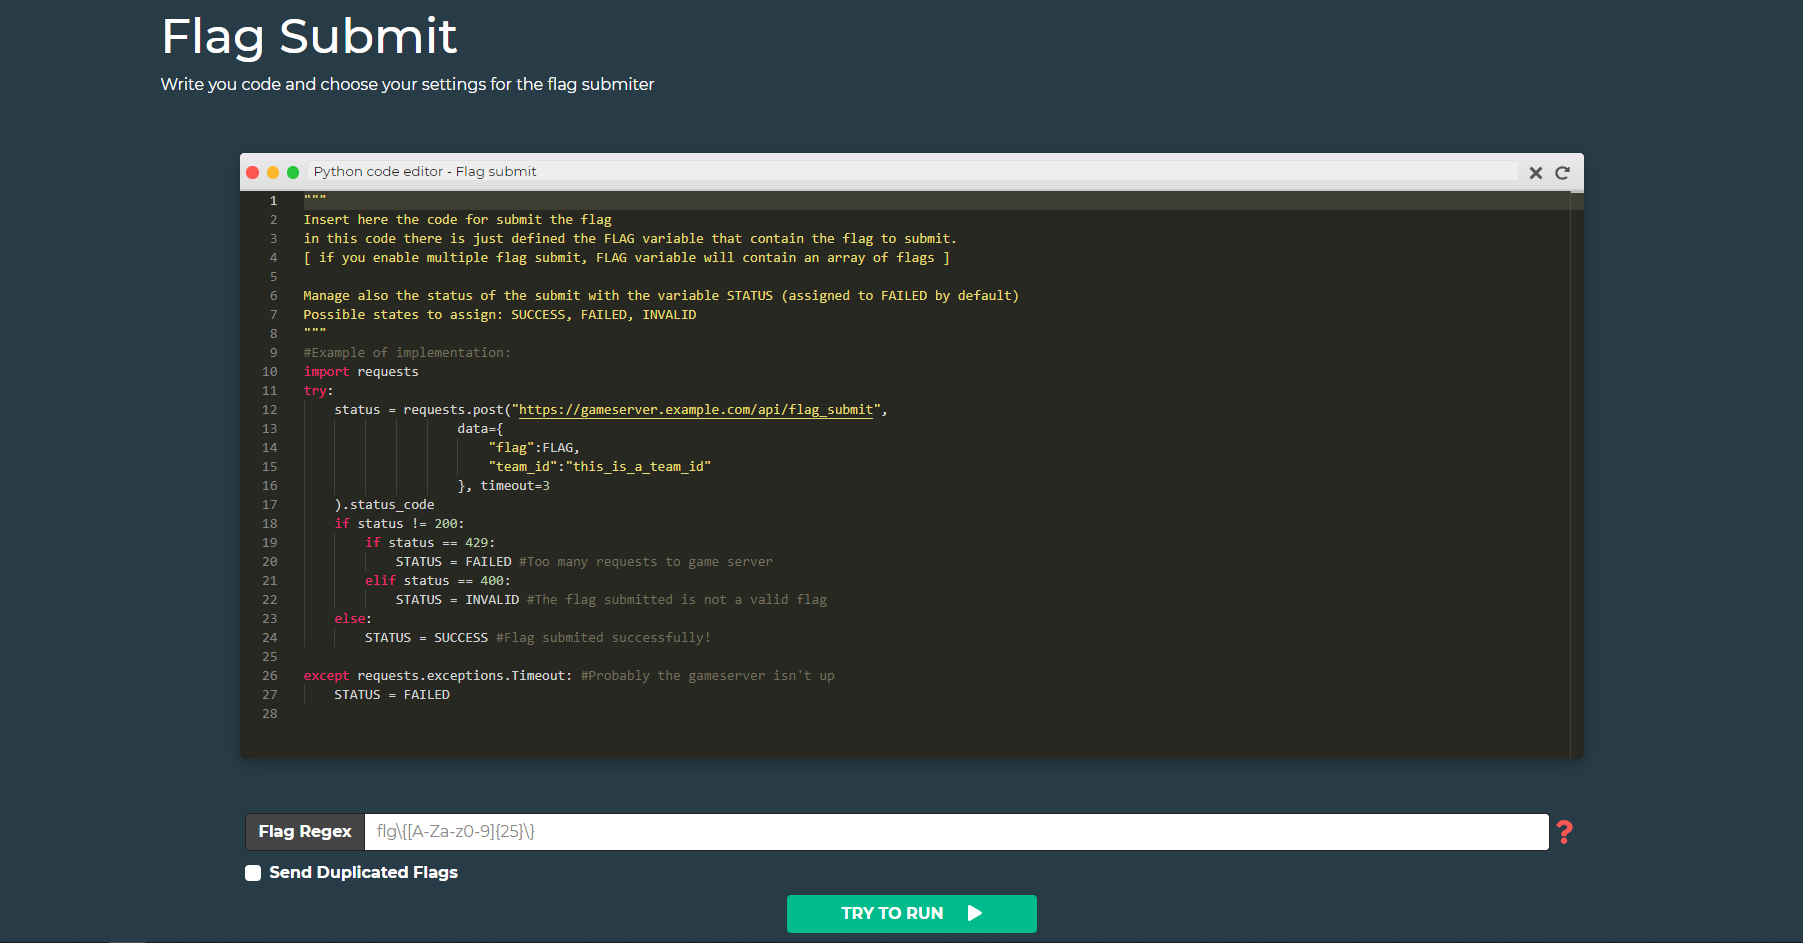
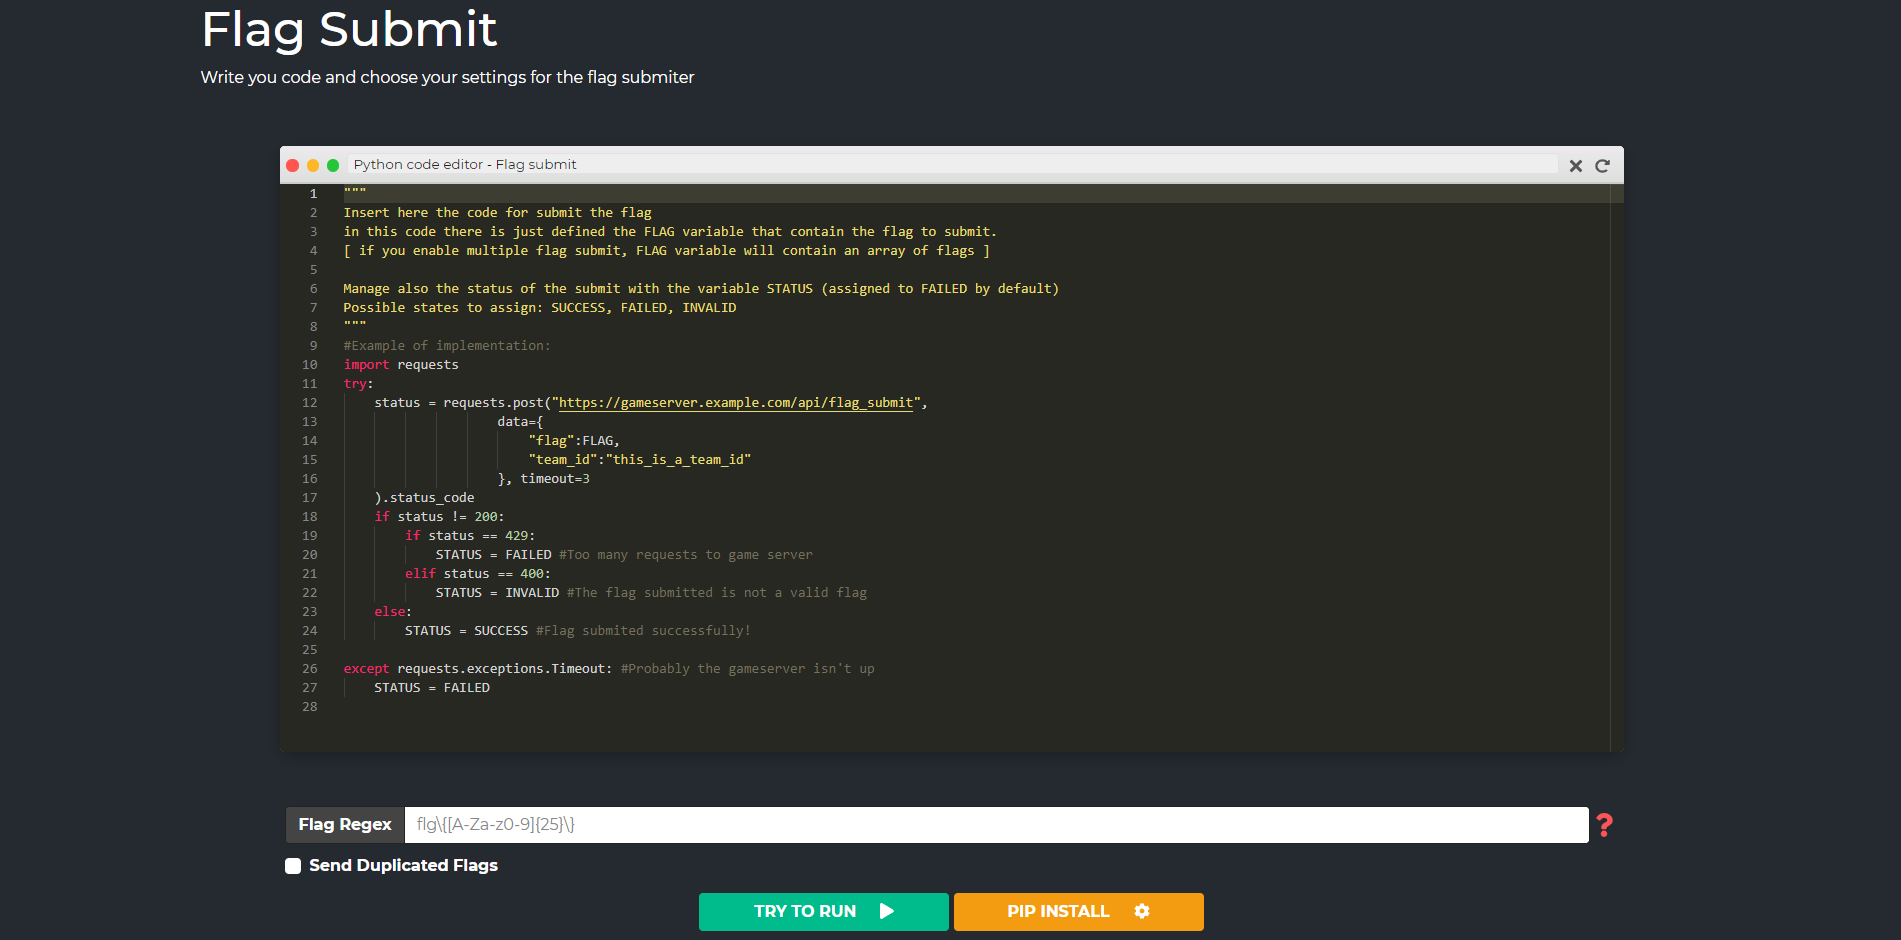
Improvements in init pages, init build the main page, style changes

diff --git a/webserver/static/css/default.css b/webserver/static/css/default.css
@@ -1,7 +1,7 @@
 @import url('https://fonts.googleapis.com/css2?family=Montserrat:ital,wght@0,100;0,200;0,300;0,400;0,500;0,600;0,700;0,800;0,900;1,100;1,200;1,300;1,400;1,500;1,600;1,700;1,800;1,900&display=swap');
 :root {
     --first: #f9f8f3;
-    --second: #273c47;
+    --second: #252a30;
     --third: #fb5555;
     --fourth: #df1833;
     --fifth: #3fa997;
@@ -15,21 +15,22 @@ html {
     border: 0;
     padding: 0;
     min-height: 100vh;
+    background: var(--second);
 }
 
 body {
     margin: 0;
-    background: var(--first);
+    background: var(--second);
     color: var(--text);
     font-family: 'Montserrat', sans-serif;
 }
 
 main {
-    min-height: calc(100vh - 150px);
+    min-height: calc(100vh - 100px);
 }
 
 nav {
-    height: 100px;
+    height: 130px;
     background: var(--second);
 }
 
@@ -42,7 +43,7 @@ img {
 }
 
 footer.default {
-    height: 150px;
+    height: 100px;
     display: flex;
     align-items: center;
     justify-content: space-between;
@@ -288,5 +289,59 @@ html.is-animating .transition-fade {
         -webkit-transform: rotate(-360deg);
     }
 }
-  
-  
+
+
+/* Main Screen */
+
+#main-img-nav{
+    height: 130px;
+    width: auto;
+    padding:40px;
+    padding-top: 25px;
+    float:left;
+}
+
+#left-div-nav{
+    float: right;
+    height: 100%;
+    display: flex;
+    align-items: center;
+    justify-content: center;
+}
+
+#flag-submitted-icon{
+    margin-right: 50px;
+    font-size: 150%;
+    color: #00bc8c;
+}
+
+#flag-submitted{
+    margin-right: 10px;
+    font-weight: bolder;
+    font-size: 150%;
+    color: #00bc8c;
+}
+
+.mr10px{margin-right: 10px;}
+.mr60px{margin-right: 60px;}
+
+@media only screen and (max-width: 570px) {
+    #main-img-nav{
+        display: none;
+    }
+    #left-div-nav{
+        float: none;
+        width: 100%;
+    }
+    #last-nav-button{
+        margin-right: 10px !important;
+    }
+}
+
+#ctfsub-status{
+    overflow: auto;
+    max-height: calc(100vh - 230px);
+    min-height: calc(100vh - 230px);
+    width: 100%;
+    height: 100%;
+}

diff --git a/webserver/templates/base.html b/webserver/templates/base.html
@@ -19,7 +19,13 @@
     <meta content="{{ description }}" name="twitter:description">
     <meta content="{{ description }}" itemprop="description">
     <meta content="{{ config['BASE_URL'] }}" itemprop="url">
-    <title>CTFsub - {{ title }}</title>
+    <title>
+        {% if title %}
+            CTFsub - {{ title }}
+        {% else %}
+            CTFsub
+        {% endif %}
+    </title>
     <link rel="stylesheet" href="https://cdnjs.cloudflare.com/ajax/libs/font-awesome/5.15.3/css/all.min.css" integrity="sha512-iBBXm8fW90+nuLcSKlbmrPcLa0OT92xO1BIsZ+ywDWZCvqsWgccV3gFoRBv0z+8dLJgyAHIhR35VZc2oM/gI1w==" crossorigin="anonymous" referrerpolicy="no-referrer" />
     <script src="https://cdnjs.cloudflare.com/ajax/libs/socket.io/4.1.3/socket.io.js" integrity="sha512-PU5S6BA03fRv1Q5fpwXjg5nlRrgdoguZ74urFInkbABMCENyx5oP3hrDzYMMPh3qdLdknIvrGj3yqZ4JuU7Nag==" crossorigin="anonymous" referrerpolicy="no-referrer"></script>
     <script src="https://cdnjs.cloudflare.com/ajax/libs/font-awesome/5.15.3/js/all.min.js" integrity="sha512-RXf+QSDCUQs5uwRKaDoXt55jygZZm2V++WUZduaU/Ui/9EGp3f/2KZVahFZBKGH0s774sd3HmrhUy+SgOFQLVQ==" crossorigin="anonymous" referrerpolicy="no-referrer"></script>

diff --git a/webserver/templates/home.html b/webserver/templates/home.html
@@ -1,0 +1,28 @@
+{% extends "base.html" %}
+
+{% block head %}
+<script src="/static/js/home.js" type="text/javascript"></script>
+{% endblock %}
+
+{% block nav %}
+<a href="https://github.com/domysh/ctfsub" target="_blank" style="float:left;height: 100%;display: flex;align-items: center;justify-content: center;">
+    <img src="/static/img/logo.png" id="main-img-nav" class="img-fluid">
+</a>
+<div id="left-div-nav">
+    <span id="flag-submitted">_</span>
+    <i class="fas fa-flag" id="flag-submitted-icon"></i>
+    <a href="/addattack" class="btn btn-danger mr10px"><i class="fas fa-plus"></i></a>
+    <button class="btn btn-primary mr10px" onclick="back_to_config()"><i class="fas fa-cog"></i></button>
+    <button class="btn btn-success mr60px" id="last-nav-button" onclick="ctfsub_help()"><i class="fas fa-question" ></i></button>
+</div>
+{% endblock %}
+
+{% block header %}{% endblock %}
+
+{% block main %}
+
+<div id="ctfsub-status">
+    
+</div>
+
+{% endblock %}

diff --git a/webserver/static/js/default.js b/webserver/static/js/default.js
@@ -129,12 +129,12 @@ function show_message(title, text, html_escape = true) {
 function show_question(title, text, html_escape = true) {
     window.resolve_question = null
     modify_modal(`
-    <div class="modal fade" id="modal_message" tabindex="-1" aria-labelledby="modal_title" aria-hidden="true">
+    <div class="modal fade" id="modal_message" data-bs-backdrop="static" tabindex="-1" aria-labelledby="modal_title" aria-hidden="true">
     <div class="modal-dialog">
       <div class="modal-content">
         <div class="modal-header">
           <h5 class="modal-title" id="modal_title">Modal title</h5>
-          <button type="button" class="btn-close" data-bs-dismiss="modal" aria-label="Close"></button>
+          <button type="button" class="btn-close" onclick="window.resolve_question(false)" data-bs-dismiss="modal" aria-label="Close"></button>
         </div>
         <div class="modal-body" id="modal_text">
         </div>

diff --git a/webserver/static/js/home.js b/webserver/static/js/home.js
@@ -1,0 +1,13 @@
+function ctfsub_help(){
+    show_message('▶ WTF❓',`<a href='https://www.youtube.com/watch?v=dQw4w9WgXcQ' target='_blanck' >https://www.youtube.com/watch?v=dQw4w9WgXcQ</a>`,false)
+}
+
+function back_to_config(){
+    show_question("Change configuration of CTFsub ⚙",`
+    For change the configurations of CTFsub, the web server will come back to configuration mode.
+    
+    After you changed the configuration of CTFsub, click the start button and at that moment the engine will update the configurations.
+    Clicking "OK", CTFsub will switch to configuration mode.
+    <br><b>Nothing will be lost and the attacks will keep running during the re-configuration!</b>
+    `,false).then( ans => { if (ans) { fetch("/api/back_to_configuration") } })
+}

diff --git a/webserver/templates/init/init5.html b/webserver/templates/init/init5.html
@@ -20,12 +20,10 @@
     <a type="button" onclick="request_back()" class="btn btn-danger">
         <i class="fas fa-angle-double-left"></i> EDIT
     </a>
-    <a type="button" style="float: right;" onclick="show_message('▶ WTF❓',`<a href='https://www.youtube.com/watch?v=dQw4w9WgXcQ' target='_blanck' >https://www.youtube.com/watch?v=dQw4w9WgXcQ</a>`,false)" class="btn btn-success">
+    <a type="button" style="float: right;" onclick="request_next()" class="btn btn-success">
             START<i class="fas fa-play" style="margin-left: 10px;"></i>
     </a>
 
 
 </div>
-
-<script src="/static/js/init/init5.js"></script>
 {% endblock %}

diff --git a/webserver/templates/single_access_required.html b/webserver/templates/single_access_required.html
@@ -8,13 +8,6 @@
     <p>Only one browser can access to CTFsub during the configuration.</p>
 </div>
 
-<button class="btn btn-success" onclick="get_single_access()">Switch access to this browser session</button>
-
-
-<script>
-    function get_single_access(){
-        fetch("/api/allow_single_access")
-    }
-</script>
+<button class="btn btn-success" onclick="fetch('/api/allow_single_access')">Switch access to this browser session</button>
 {% endblock %}
 

diff --git a/webserver/templates/fullwidth.html b/webserver/templates/fullwidth.html
@@ -1,14 +1,6 @@
 {% extends "base.html" %}
 
-
-
 {% block content %}
-
-<style>
-main,html,body{
-    background: var(--second);
-}
-</style>
 
 <main class="centered-flex flex-rows">
 {% block main %}

diff --git a/engine/utils.py b/engine/utils.py
@@ -16,7 +16,6 @@ class SocketCommandHandler():
             conn, _ = self._sk.accept()
             data = conn.recv(self._max_data)
             conn.close()
-            if conf.DEBUG: print("Connection recived: data =>",data)
             try: data = json.loads(data)
             except json.JSONDecodeError: continue
 
@@ -36,6 +35,7 @@ class SocketCommandHandler():
             if callable(func):
                 res = None
                 try:
+                    if conf.DEBUG: print("Command recived:",command, flush=True)
                     res = func(data)
                 except Exception:
                     import traceback
@@ -71,6 +71,7 @@ def start_attacker():
     conf.ATTACKER = Thread(target=attacker.attacker)
     conf.ATTACKER.daemon = True
     conf.ATTACKER.start()
+    if conf.DEBUG: print("Attacker module started!")
 
 def start_submitter():
     from threading import Thread
@@ -78,6 +79,7 @@ def start_submitter():
     conf.SUBMITTER = Thread(target=submitter.submitter)
     conf.SUBMITTER.daemon = True
     conf.SUBMITTER.start()
+    if conf.DEBUG: print("Submitter module started!")
 
 def check_valid_regex(r):
     try:

diff --git a/webserver/paths/api/init.py b/webserver/paths/api/init.py
@@ -1,4 +1,5 @@
 from flask import Blueprint, redirect, request
+from flask_socketio import send
 import conf, utils
 from utils import db
 app = Blueprint('init', __name__)
@@ -16,6 +17,11 @@ def load_init_state(go_next):
         return create_json_response(init3(request.get_json()),state,go_next)
     if state == 4:
         return create_json_response(init4(request.get_json()),state,go_next)
+    if state == 5 and go_next == True:
+        from utils.engine import send_request
+        db.set_running()
+        send_request({"type":"mode_changed"})
+        return {"status":True}
 
 @app.route("/save", methods=["GET","POST"])
 def save_state():
@@ -66,8 +72,6 @@ def get_actual_state(init_id):
             return {"status":True,"data":data}
     else:
         return redirect("/")
-
-
 
 def create_json_response(data,state,go_next):
     if data is None:

diff --git a/engine/exec.py b/engine/exec.py
@@ -21,11 +21,22 @@ class Inithandler(SKHandler):
 class Handler(SKHandler):
     def pip_install(self, data):
         return install_libs(data["libs"])
+    def flag_submit_test(self,data):
+        from submitter import emulate_flag_submit
+        return emulate_flag_submit(
+            texts=data["text"],
+            code=data["code"],
+            filter_regex=data["regex"] if "regex" in data else None,
+            multiple_submit=data["multiple_submit"],
+            max_submit=data["max_submit"] if data["multiple_submit"] else None,
+            send_duplicate=data["duplicate"]
+        )
 
 def main():
     db.init()
     while db.get_settings()["mode"] == "init":
         Inithandler()
+    if conf.DEBUG: print("Engine setted in running mode!", flush=True)
     init_modules()
     Handler()
     wait_modules()

diff --git a/webserver/paths/api/__init__.py b/webserver/paths/api/__init__.py
@@ -1,6 +1,7 @@
 from flask import Blueprint, session, current_app 
 from werkzeug.utils import redirect
 import conf
+from utils import db
 from . import init, config, engine
 
 
@@ -15,6 +16,16 @@ def give_single_access():
     current_app.config["ALLOWED_SESSION_SINGLE_ACCESS"] = session["id"]
     conf.SKIO.emit("reload-page", {}, broadcast=True)
     return redirect("/")
+
+
+@app.route("/back_to_configuration")
+def back_to_conf():
+    db.set_config_mode()
+    current_app.config["ALLOWED_SESSION_SINGLE_ACCESS"] = session["id"]
+    conf.SKIO.emit("reload-page", {}, broadcast=True)
+    return redirect("/")
+
+
 
 @app.route("/single_access")
 def have_single_access():
